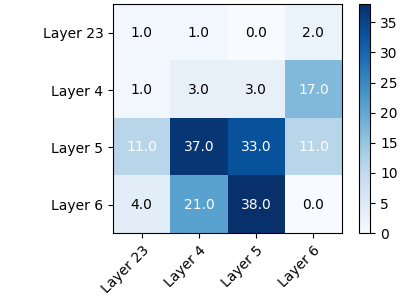
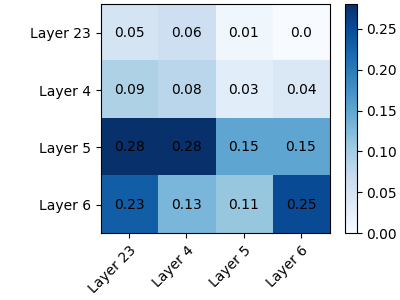
added plots for proportion of sig links

diff --git a/plot_results.py b/plot_results.py
@@ -4,11 +4,13 @@ import matplotlib as mpl
 from matplotlib.colors import ListedColormap, LinearSegmentedColormap
 import numpy as np
 import sys
+import glob
 
+mouse = 'mouse2probe8'
 n_layers = 4
 
 sig_links_mat = np.zeros((n_layers,n_layers))
-with open('results/mouse1probe3/pairwise_summary.csv') as f:
+with open(f'results/{mouse}/pairwise_summary.csv') as f:
     header = f.readline()
     lines = f.readlines()
 i = 0
@@ -20,35 +22,70 @@ for line in lines:
         j = 0
         i += 1
 # index  0, 1, 2, 3
-# layer 23, 4, 5, 6 
+# layer 23, 4, 5, 6
+
+n_links_mat = np.zeros((n_layers, n_layers))
+for filename in glob.glob(f'results/{mouse}/Layer*.csv'):
+    source = filename.split('Layer ')[1][:2]
+    if source != '23':
+        source_idx = int(source[:1]) - 3
+    else:
+        source_idx = 0
+    dest = filename.split('Layer ')[2][:2]
+    if dest != '23':
+        dest_idx = int(dest[:1]) - 3
+    else:
+        dest_idx = 0
+    with open(filename) as f:
+        n_links = len(f.readlines())
+    n_links_mat[source_idx, dest_idx] = n_links
 
 
-vmin = 0
-vmax = np.amax(sig_links_mat)
+# plot number of links
+#left axis is source, bottom axis is destination.
+def plot_matrix_colour_map(mat, fname):
+    vmin = 0
+    vmax = np.amax(mat)
+    blues = mpl.colormaps['Blues']
+    fig, axs = plt.subplots(1, 1, figsize=(4, 3),
+                            constrained_layout=True, squeeze=False)
+    layer_names = ['Layer 23', 'Layer 4', 'Layer 5', 'Layer 6']
+    for [ax, cmap] in zip(axs.flat, [blues]):
+        psm = ax.imshow(mat, cmap=cmap, snap = True, rasterized=True, vmin=vmin, vmax=vmax)
+        fig.colorbar(psm, ax=ax)
+        ax.set_xticks(np.arange(n_layers), labels=layer_names)
+        ax.set_yticks(np.arange(n_layers), labels=layer_names)
 
-# plot
-blues = mpl.colormaps['Blues']
-fig, axs = plt.subplots(1, 1, figsize=(4, 3),
-                        constrained_layout=True, squeeze=False)
-layer_names = ['Layer 23', 'Layer 4', 'Layer 5', 'Layer 6']
-for [ax, cmap] in zip(axs.flat, [blues]):
-    psm = ax.imshow(sig_links_mat, cmap=cmap, snap = True, rasterized=True, vmin=vmin, vmax=vmax)
-    fig.colorbar(psm, ax=ax)
-    ax.set_xticks(np.arange(n_layers), labels=layer_names)
-    ax.set_yticks(np.arange(n_layers), labels=layer_names)
+    #add text annotations
+    for i in range(n_layers):
+        for j in range(n_layers):
+            if mat[i,j] < 10:
+                colour = 'black'
+            else:
+                colour = 'white'
+            text = ax.text(j, i, mat[i, j],
+                        ha="center", va="center", color=colour)
 
-#add text annotations
-for i in range(n_layers):
-    for j in range(n_layers):
-        if sig_links_mat[i,j] < 10:
-            colour = 'black'
-        else:
-            colour = 'white'
-        text = ax.text(j, i, sig_links_mat[i, j],
-                       ha="center", va="center", color=colour)
+    #rotate x tick labels
+    plt.setp(ax.get_xticklabels(), rotation=45, ha="right",
+            rotation_mode="anchor")
+    plt.savefig(f'results/{mouse}/{fname}.png')
+    print(f"saved in results/{mouse}/{fname}.png")
 
-#rotate x tick labels
-plt.setp(ax.get_xticklabels(), rotation=45, ha="right",
-         rotation_mode="anchor")
-plt.savefig('results/mouse1probe3/pairwise_summary.png')
-print("saved in results/mouse1probe3/pairwise_summary.png")
+# plot_matrix_colour_map(n_links_mat, 'n_links')
+
+#plot proportion of significant links
+sig_links_mat_normalised  = np.zeros((n_layers, n_layers))
+i = 0
+while i < n_layers:
+    j = 0
+    while j < n_layers:
+        sig_links_mat_normalised[i,j] = round(sig_links_mat[i,j] / n_links_mat[i,j], 2)
+        j += 1
+    i += 1
+
+print(sig_links_mat)
+print(n_links_mat)
+print(sig_links_mat_normalised)
+
+plot_matrix_colour_map(sig_links_mat_normalised, 'pairwise_summary')

diff --git a/pairwise_te.py b/pairwise_te.py
@@ -1,11 +1,25 @@
 '''Transfer entropy (TE) calculation on spike train data using the 
 continuous-time TE estimator'''
 
+'''
+TODO
+need to look at not just number of significant pairs, but what this 
+is as a proportion.
+Visualise also the average TE rate, across all pairs.
+planning to add average TE per spike (averaged over source or target - try both).
+also will look at dropping the threshold of the number of spikes required to enter the analysis.
+'''
 #TODO: significance test for average TE per spike?
-#TODO: remove limit on target NUM_SPIKES , or allow a much larger range.
+    # - just do averag TE per spike on significant pairs.
+#TODO:
+    # run with NUM_SPIKES set to 3000
+    # 1000
+    # 500
+    # no limit 
 #TODO: is getting average local TE limited? what if there are random bursts?
 # use jittered sampling approach?
-
+# - can check for burstiness using histogram of ISIs (look up a numeric test, probably
+# exists)
 # Reference: https://github.com/jlizier/jidt
 
 from jpype import *
